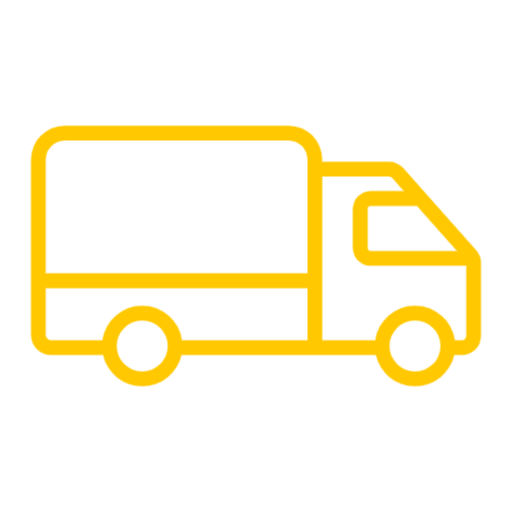
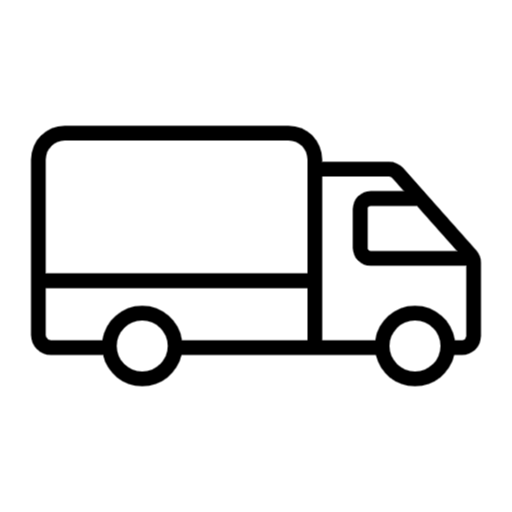
Newest

Changed region(s): [[0.0312, 0.2188, 0.9688, 0.7812]]

diff --git a/lane-manager/styles/globals.css b/lane-manager/styles/globals.css
@@ -148,8 +148,8 @@ tbody tr:hover {
   font-weight: 600;
 }
 
-.badge-factor { background: var(--carbon); color: #fff; }
-.badge-german { background: #18849F; color: #fff; }
+.badge-factor { background: var(--carbon); color: #fff; min-width: 20px; text-align: center; }
+.badge-german { background: #18849F; color: #fff; min-width: 20px; text-align: center; }
 .badge-sent { background: var(--sent-bg); color: var(--sent); }
 .badge-pending { background: var(--pending-bg); color: var(--pending); }
 .badge-soon { background: #E6F1FB; color: var(--blue); margin-left: 4px; }
@@ -394,8 +394,8 @@ tbody tr:hover {
 .badge-missing { background: #FFF6DE; color: #8a6400; }
 .badge-stale { background: #f0f1ec; color: var(--text-muted); }
 .badge-shipped {
-  background: var(--saffron);
-  color: var(--carbon);
+  background: #FFF3D1;
+  color: #8a6400;
   display: inline-flex;
   align-items: center;
   gap: 4px;

diff --git a/lane-manager/components/LaneDetailModal.jsx b/lane-manager/components/LaneDetailModal.jsx
@@ -1,5 +1,5 @@
 import { useEffect, useState } from 'react';
-import { SUMMARY_FIELDS, ALL_FIELDS_BY_HEADER, DETAIL_SECTIONS } from '../lib/columns';
+import { SUMMARY_FIELDS, ALL_FIELDS_BY_HEADER, DETAIL_SECTIONS, brandLabel } from '../lib/columns';
 import { toDateInputValue, toTimeInputValue } from '../lib/dateUtils';
 
 const LOAD_STATUS_HEADER = 'Load Status';
@@ -141,7 +141,7 @@ export default function LaneDetailModal({ lane, onClose, onSaved }) {
         <h2>
           {lane['Load Reference'] || 'Lane details'}{' '}
           <span className={`badge ${lane.source === 'factor' ? 'badge-factor' : 'badge-german'}`}>
-            {lane.source === 'factor' ? 'FACTOR_' : 'DACH'}
+            {brandLabel(lane.source)}
           </span>
         </h2>
         {infoLine && <p className="detail-infoline">{infoLine}</p>}

diff --git a/lane-manager/components/LaneTable.jsx b/lane-manager/components/LaneTable.jsx
@@ -1,5 +1,5 @@
 import { useMemo } from 'react';
-import { SUMMARY_FIELDS, SUMMARY_GROUPS } from '../lib/columns';
+import { SUMMARY_FIELDS, SUMMARY_GROUPS, brandLabel } from '../lib/columns';
 import {
   toDateInputValue,
   toTimeInputValue,
@@ -89,7 +89,7 @@ export default function LaneTable({ lanes, onQuickEdit, onOpenDetail, globalSear
               <tr key={`${lane.source}-${lane._rowNumber}`}>
                 <td>
                   <span className={`badge ${lane.source === 'factor' ? 'badge-factor' : 'badge-german'}`}>
-                    {lane.source === 'factor' ? 'FACTOR_' : 'DACH'}
+                    {brandLabel(lane.source)}
                   </span>
                   {shipped && (
                     <span className="badge badge-shipped" title="Actual dispatch time recorded">

diff --git a/lane-manager/components/HistoryTab.jsx b/lane-manager/components/HistoryTab.jsx
@@ -1,5 +1,5 @@
 import { useEffect, useState } from 'react';
-import { KEY_HEADER } from '../lib/columns';
+import { KEY_HEADER, brandLabel } from '../lib/columns';
 
 export default function HistoryTab({ lanes }) {
   const [entries, setEntries] = useState([]);
@@ -65,7 +65,7 @@ export default function HistoryTab({ lanes }) {
                   <td>{e.loadReference}</td>
                   <td>
                     <span className={`badge ${e.source === 'factor' ? 'badge-factor' : 'badge-german'}`}>
-                      {e.source === 'factor' ? 'FACTOR_' : 'DACH'}
+                      {brandLabel(e.source)}
                     </span>
                   </td>
                   <td>{e.type}</td>

diff --git a/lane-manager/components/SlackUpdatesTab.jsx b/lane-manager/components/SlackUpdatesTab.jsx
@@ -1,5 +1,5 @@
 import { useEffect, useState } from 'react';
-import { KEY_HEADER } from '../lib/columns';
+import { KEY_HEADER, brandLabel } from '../lib/columns';
 
 const VISIBLE_COUNT = 3;
 
@@ -13,7 +13,7 @@ function TicketCard({ ticket }) {
       <div className="ticket-card-header">
         <span className="ticket-card-ref">{ticket.loadReference}</span>
         <span className={`badge ${ticket.source === 'factor' ? 'badge-factor' : 'badge-german'}`}>
-          {ticket.source === 'factor' ? 'FACTOR_' : 'DACH'}
+          {brandLabel(ticket.source)}
         </span>
       </div>
       <div className="ticket-messages">

diff --git a/lane-manager/lib/columns.js b/lane-manager/lib/columns.js
@@ -5,6 +5,13 @@
 
 export const KEY_HEADER = 'Load Reference';
 
+// Short brand badge text — kept to 2 letters each so FA and DE line up
+// evenly regardless of source, instead of 'FACTOR_' vs 'DACH' being
+// visibly different widths next to each other in a table.
+export function brandLabel(source) {
+  return source === 'factor' ? 'FA' : 'DE';
+}
+
 export const SUMMARY_FIELDS = [
   { header: 'Load Reference', label: 'Load reference', type: 'text' },
   { header: 'Carrier', label: 'Courier', type: 'text' },
